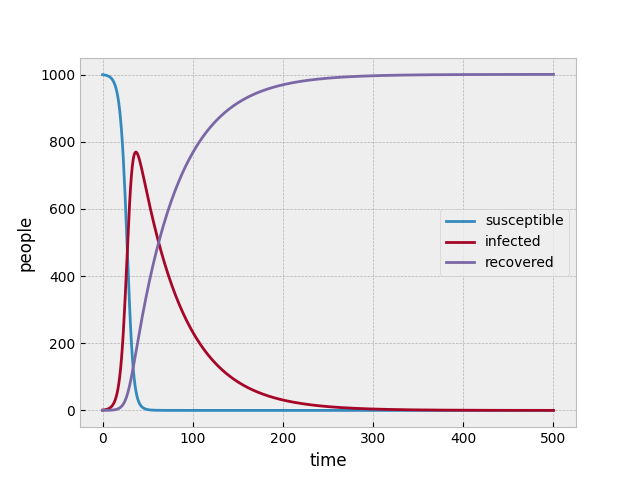
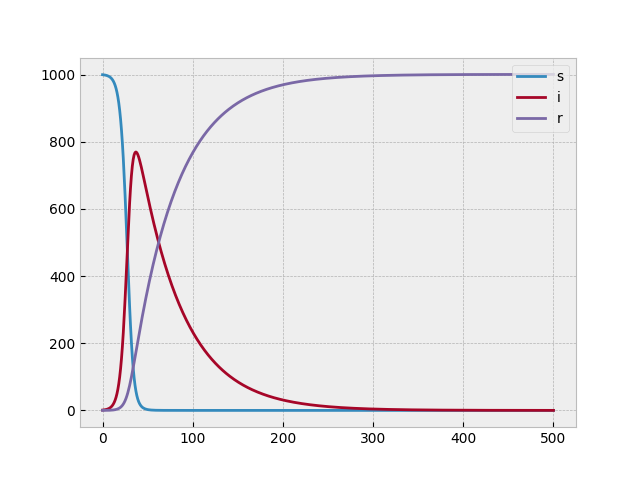
used euler estimator to shorten the code for the sir and predator-prey models

diff --git a/analysis/predator_prey_model.py b/analysis/predator_prey_model.py
@@ -1,30 +1,14 @@
+import sys
+sys.path.append('src')
+from euler_estimator import *
 import matplotlib.pyplot as plt
-plt.style.use('bmh')
 
-deer = 100
-wolves = 10
-d_list = []
-w_list = []
+rates = {
+    'deer': (lambda t,x: (0.6*x['deer']) - (0.05*x['deer']*x['wolves'])),
+    'wolves': (lambda t,x: (0.02*x['deer']*x['wolves']) - (0.9*x['wolves']))}
+model = EulerEstimator(rates)
+initial_vals = {'deer': 100, 'wolves': 10}
+init_point = (0, initial_vals)
 
-t = []
-counter = 0
-while counter <= 100:
-    t.append(counter)
-    counter += 0.001
+model.plot(init_point, 0.001, 100, "predator_prey_model")
 
-for _ in range(len(t)):
-    d_list.append(deer)
-    w_list.append(wolves)
-
-    d_copy = deer
-    w_copy = wolves
-
-    deer += 0.001*((0.6*d_copy) - (0.05*d_copy*w_copy))
-    wolves += 0.001*((0.02*d_copy*w_copy) - (0.9*w_copy))
-
-plt.plot(t, d_list, label='deer')
-plt.plot(t, w_list, label='wolves')
-plt.legend(loc='upper right')
-plt.xlabel('time (in years)')
-plt.ylabel('population')
-plt.savefig('predator_prey_model.png')

diff --git a/src/euler_estimator.py b/src/euler_estimator.py
@@ -31,14 +31,14 @@ class EulerEstimator():
             counter += step_size
         return point_list
 
-    def plot(self, point, step_size, max_value):
+    def plot(self, point, step_size, max_value, plot_name):
         plt.style.use('bmh')
         points = self.calc_estimated_points(point, step_size, max_value)
         t_list = [point[0] for point in points]
         values = [point[1] for point in points]
         for key in point[1]:
             plt.plot(t_list, [vals[key] for vals in values], label=key)
-        plt.legend(loc="upper left")
-        plt.savefig("plot.png")
+        plt.legend(loc="upper right")
+        plt.savefig(plot_name + ".png")
 
 

diff --git a/analysis/sir_model.py b/analysis/sir_model.py
@@ -1,6 +1,19 @@
+import sys
+sys.path.append('src')
+from euler_estimator import *
 import matplotlib.pyplot as plt
-plt.style.use('bmh')
 
+rates = {
+    's': (lambda t,x: -0.0003 * x['s'] * x['i']),
+    'i': (lambda t,x: (0.0003 * x['s'] * x['i']) - (0.02 * x['i'])),
+    'r': (lambda t,x: 0.02 * x['i'])}
+model = EulerEstimator(rates)
+init_vals = {'s': 1000, 'i': 1, 'r': 0}
+init_point = (0, init_vals)
+
+model.plot(init_point, 1, 500, "sir_model")
+
+'''
 susceptible = 1000
 infected = 1
 recovered = 0
@@ -32,3 +45,4 @@ plt.legend(loc='center right')
 plt.xlabel('time')
 plt.ylabel('people')
 plt.savefig('sir_model.png')
+'''
